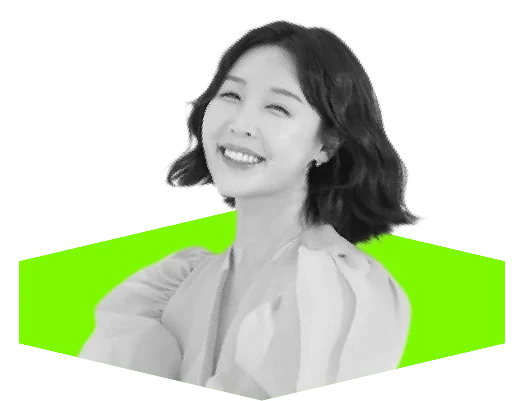
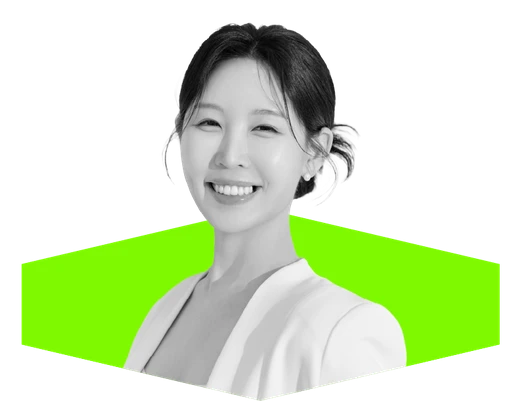
future stage 사진 변경

Changed region(s): [[0.0921, 0.0299, 0.9827, 1.0], [0.0307, 0.6284, 0.1228, 0.8678], [0.5528, 0.808, 0.5835, 0.8379]]

diff --git a/js/content.js b/js/content.js
@@ -167,34 +167,38 @@ window.WCIF_CONTENT = {
   "futureStage": [
     { "featured": false, "img": "images/speakers/card/baek-kwanghyun.webp", "role": "패널", "roleEng": "Panel", "kor": { "name": "백광현", "title": "모드하우스 부대표" }, "eng": { "name": "Kwang Hyun Baek", "title": "Co-founder, Modhaus" } },
     { "featured": false, "img": "images/speakers/card/kim-miso.webp", "role": "패널", "roleEng": "Panel", "kor": { "name": "김미소", "title": "DMZ 피스트레인 총감독" }, "eng": { "name": "Miso Kim", "title": "Executive Director, DMZ Peace Train Music Festival" } },
-    { "featured": false, "img": "images/speakers/card/jin-sol.webp", "role": "패널", "roleEng": "Panel", "kor": { "name": "진솔", "title": "(사)국제소셜인플루언서협회 이사" }, "eng": { "name": "Jin Sol", "title": "Director, Int'l Social Influencer Association" } },
-    { "featured": false, "img": "images/speakers/card/kim-kyunghoon.webp", "role": "호스트", "roleEng": "Host", "kor": { "name": "김경훈", "title": "MC 훈 전문 사회자" }, "eng": { "name": "Kyung Hun Kim", "title": "Professional MC & Reporter, MC HUN" } },
+    { "featured": false, "img": "images/speakers/card/jin-sol.webp", "role": "패널", "roleEng": "Panel", "kor": { "name": "진솔", "title": "스타일대디 대표이사" }, "eng": { "name": "Jin Sol", "title": "CEO, Style Daddy" } },
+    { "featured": false, "img": "images/speakers/card/kim-kyunghoon.webp", "role": "호스트", "roleEng": "Host", "kor": { "name": "김경훈", "title": "더블유더블유이엔티 MC" }, "eng": { "name": "Kyung Hun Kim", "title": "MC, WWENT" } },
     { "featured": false, "img": "images/speakers/card/gwak-jaewon.webp", "role": "패널", "roleEng": "Panel", "kor": { "name": "곽재원", "title": "트래쉬버스터즈 대표" }, "eng": { "name": "Jae Won Gwak", "title": "CEO, Trash Busters" } },
     { "featured": false, "img": "images/speakers/card/jang-eunseok.webp", "role": "패널", "roleEng": "Panel", "kor": { "name": "장은석", "title": "수무 대표" }, "eng": { "name": "Eunserk Chang", "title": "Principal Designer, SUMU" } },
     { "featured": false, "img": "images/speakers/card/choi-jaesik.webp", "role": "패널", "roleEng": "Panel", "kor": { "name": "최재식", "title": "로우리트콜렉티브 대표" }, "eng": { "name": "Jae Sik Choi", "title": "CEO, Lowlit Collective" } },
-    { "featured": false, "img": "images/speakers/card/jung-juhee.webp", "role": "호스트", "roleEng": "Host", "kor": { "name": "정주희", "title": "기후캐스터 크리에이터" }, "eng": { "name": "Juhee Jung", "title": "Creator, climate caster" } },
+    { "featured": false, "img": "images/speakers/card/jung-juhee.webp", "role": "호스트", "roleEng": "Host", "kor": { "name": "정주희", "title": "프리랜서 기후캐스터" }, "eng": { "name": "Juhee Jung", "title": "Freelance Climate Caster" } },
     { "featured": false, "img": "images/speakers/card/lee-boyoung.webp", "role": "패널", "roleEng": "Panel", "kor": { "name": "이보영", "title": "워크모어 운영총괄" }, "eng": { "name": "Boyoung Lee", "title": "COO, WORKMORE" } },
     { "featured": false, "img": "images/speakers/card/agon.webp", "role": "패널", "roleEng": "Panel", "kor": { "name": "아곤", "title": "포뮬라랩스 대표" }, "eng": { "name": "Agon", "title": "CEO, Formula Labs" } },
+    { "featured": false, "img": "images/speakers/card/park-jinhyun.webp", "role": "패널", "roleEng": "Panel", "kor": { "name": "박진현", "title": "계원예술대학교 교수" }, "eng": { "name": "Jinhyun Park", "title": "Professor, Kaywon University of Art & Design" } },
     { "featured": false, "img": "images/speakers/card/lee-jungwoo-fs.webp", "role": "호스트", "roleEng": "Host", "kor": { "name": "이정우", "title": "(주)써클커넥션 대표이사" }, "eng": { "name": "Nathan Lee", "title": "CEO, Circle Connection" } },
-    { "featured": false, "img": "images/speakers/card/an-jisung.webp", "role": "패널", "roleEng": "Panel", "kor": { "name": "안지성", "title": "악수 대표" }, "eng": { "name": "Jisung An", "title": "CEO, AXOO" } },
+    { "featured": false, "img": "images/speakers/card/an-jisung.webp", "role": "패널", "roleEng": "Panel", "kor": { "name": "안지성", "title": "주식회사 악수 대표" }, "eng": { "name": "Jisung An", "title": "CEO, AXOO" } },
     { "featured": false, "img": "images/speakers/card/choi-yerim.webp", "role": "패널", "roleEng": "Panel", "kor": { "name": "최예림", "title": "예슨트 도슨트" }, "eng": { "name": "Yerim Choi", "title": "Art Docent, Yesent" } },
+    { "featured": false, "img": "images/speakers/card/kim-jungmin.webp", "role": "패널", "roleEng": "Panel", "kor": { "name": "김정민", "title": "스튜디오 콩테 대표" }, "eng": { "name": "Jungmin Kim", "title": "CEO, Studio Conte" } },
     { "featured": false, "img": "images/speakers/card/kim-yura.webp", "role": "호스트", "roleEng": "Host", "kor": { "name": "김유라", "title": "웨이비즘 디자이너" }, "eng": { "name": "Yura Kim", "title": "Designer, wavismm" } },
-    { "featured": false, "img": "images/speakers/card/yeo-intaek.webp", "role": "패널", "roleEng": "Panel", "kor": { "name": "여인택", "title": "피치스 대표" }, "eng": { "name": "In Taek Yeo", "title": "CEO, Peaches Group Inc" } },
+    { "featured": false, "img": "images/speakers/card/yeo-intaek.webp", "role": "패널", "roleEng": "Panel", "kor": { "name": "여인택", "title": "피치스그룹코리아 파운더" }, "eng": { "name": "In Taek Yeo", "title": "Founder, Peaches Group Korea" } },
     { "featured": false, "img": "images/speakers/card/jung-inmo.webp", "role": "패널", "roleEng": "Panel", "kor": { "name": "정인모", "title": "주식회사 사사사 대표" }, "eng": { "name": "Inmo Chung", "title": "CEO, SASASA Inc" } },
     { "featured": false, "img": "images/speakers/card/jung-minkyu.webp", "role": "패널", "roleEng": "Panel", "kor": { "name": "정민규", "title": "하이어코퍼레이션 부사장" }, "eng": { "name": "Minkyu Jeong", "title": "Vice President, Higher Corporation" } },
     { "featured": false, "img": "images/speakers/card/heo-yurim.webp", "role": "호스트", "roleEng": "Host", "kor": { "name": "허유림", "title": "아이즈 매거진 편집장" }, "eng": { "name": "Yurim Heu", "title": "Editor in Chief, eyesmag" } }
   ],
   "futureStageProgram": [
     { "no": 1, "cat": "Entertainment", "kor": "초연결 시대의 엔터테인먼트: 팬덤, 페스티벌, 그리고 소셜 네트워크", "eng": "Entertainment in the Hyper-Connected Era: Fandom, Festivals, and Social Networks", "host": "김경훈", "panel": ["백광현", "김미소", "진솔"] },
-    { "no": 2, "cat": "ESG", "kor": "지속가능한 멋(Sustainable Chic): 환경, 디자인과 라이프스타일이 되다", "eng": "Sustainable Chic: When the Environment Becomes Design and Lifestyle", "host": "정주희", "panel": ["곽재원", "최재식"], "tba": true },
-    { "no": 3, "cat": "Tech", "kor": "Tech for Creators: 기술이 재정의하는 미래의 일과 창작 생태계", "eng": "Tech for Creators: Technology Redefining the Future of Work and Creation", "host": "이정우", "panel": ["이보영", "아곤"], "tba": true },
-    { "no": 4, "cat": "Art", "kor": "예술의 일상화: 시각, 공간, 스토리텔링으로 문턱을 넘은 아트 씬", "eng": "Art in Everyday Life: An Art Scene Beyond the Threshold through Vision, Space, and Storytelling", "host": "김유라", "panel": ["안지성", "최예림", "장은석"] },
+    { "no": 2, "cat": "ESG", "kor": "지속가능한 멋(Sustainable Chic): 환경, 디자인과 라이프스타일이 되다", "eng": "Sustainable Chic: When the Environment Becomes Design and Lifestyle", "host": "정주희", "panel": ["곽재원", "최재식", "장은석"] },
+    { "no": 3, "cat": "Tech", "kor": "Tech for Creators: 기술이 재정의하는 미래의 일과 창작 생태계", "eng": "Tech for Creators: Technology Redefining the Future of Work and Creation", "host": "이정우", "panel": ["이보영", "아곤", "박진현"] },
+    { "no": 4, "cat": "Art", "kor": "예술의 일상화: 시각, 공간, 스토리텔링으로 문턱을 넘은 아트 씬", "eng": "Art in Everyday Life: An Art Scene Beyond the Threshold through Vision, Space, and Storytelling", "host": "김유라", "panel": ["안지성", "최예림", "김정민"] },
     { "no": 5, "cat": "Life Style", "kor": "Subculture to Mainstream: 마이너한 취향이 거대한 비즈니스가 될 때", "eng": "Subculture to Mainstream: When Niche Tastes Become Big Business", "host": "허유림", "panel": ["여인택", "정인모", "정민규"] }
   ],
   "bios": {
     "김경훈": { "kor": "'MC 훈'으로 활동하는 전문 사회자다. 다양한 축제와 브랜드 행사의 사회를 맡아 현장의 분위기를 이끈다.", "eng": "A professional MC known as 'MC Hun,' he hosts a wide range of festivals and brand events, energizing every venue." },
     "김미소": { "kor": "DMZ 피스트레인의 총감독이다. 철원에서 음악으로 경계를 허물고, '함께 춤추는' 평화와 공존의 축제 감각을 이어간다.", "eng": "Executive Director of the DMZ Peace Train Music Festival, she breaks down borders through music in Cheorwon, carrying on a festival spirit of peace and coexistence." },
-    "진솔": { "kor": "(사)국제소셜인플루언서협회의 이사다. 1인 크리에이터의 글로벌 진출과 권익 보호를 지원하며 뉴미디어 인플루언서 생태계를 조성한다.", "eng": "A director of the International Social Influencer Association, he supports solo creators' global expansion and rights, building a new-media influencer ecosystem." },
+    "진솔": { "kor": "국제소셜인플루언서협회 스타일대디의 대표이사다. 1인 크리에이터의 글로벌 진출과 권익 보호를 지원하며 뉴미디어 인플루언서 생태계를 조성한다.", "eng": "CEO of Style Daddy under the International Social Influencer Association, he supports solo creators' global expansion and rights, building a new-media influencer ecosystem." },
+    "박진현": { "kor": "계원예술대학교 시각디자인과 교수다. UX 디자인 교육에 전문 코칭 기법을 접목해 차세대 디자인 인재의 혁신과 성장을 이끈다.", "eng": "A professor of visual design at Kaywon University of Art & Design, he blends professional coaching into UX design education to drive the innovation and growth of next-generation design talent." },
+    "김정민": { "kor": "가드닝 스튜디오 콩테의 대표다. 식물을 드로잉 도구 삼아 공간에 강렬하고 자유로운 식물 예술을 그려낸다.", "eng": "CEO of gardening studio Conte, he uses plants as a drawing tool to paint bold, free-spirited botanical art into spaces." },
     "정주희": { "kor": "전직 기상캐스터이자 그린 인플루언서다. 일상 속 기후위기 대응과 친환경 실천 방안을 대중에게 알린다.", "eng": "A former weather caster and green influencer, she shares everyday ways to respond to the climate crisis and live sustainably." },
     "곽재원": { "kor": "다회용기 대여 서비스를 제공하는 트래쉬버스터즈의 창업가다. 축제와 기업 등 일상 속 일회용품 쓰레기 문제를 실질적으로 해결한다.", "eng": "Founder of Trash Busters, a reusable-container rental service, he tackles single-use waste at festivals, companies and other everyday settings." },
     "최재식": { "kor": "업사이클링 디자인 스튜디오 로우리트콜렉티브의 대표다. 버려진 것들에서 가치를 발굴하고 새로운 목적을 지닌 라이프스타일 제품을 선보인다.", "eng": "CEO of upcycling design studio Lowlit Collective, he finds value in discarded materials and creates lifestyle products with new purpose." },
